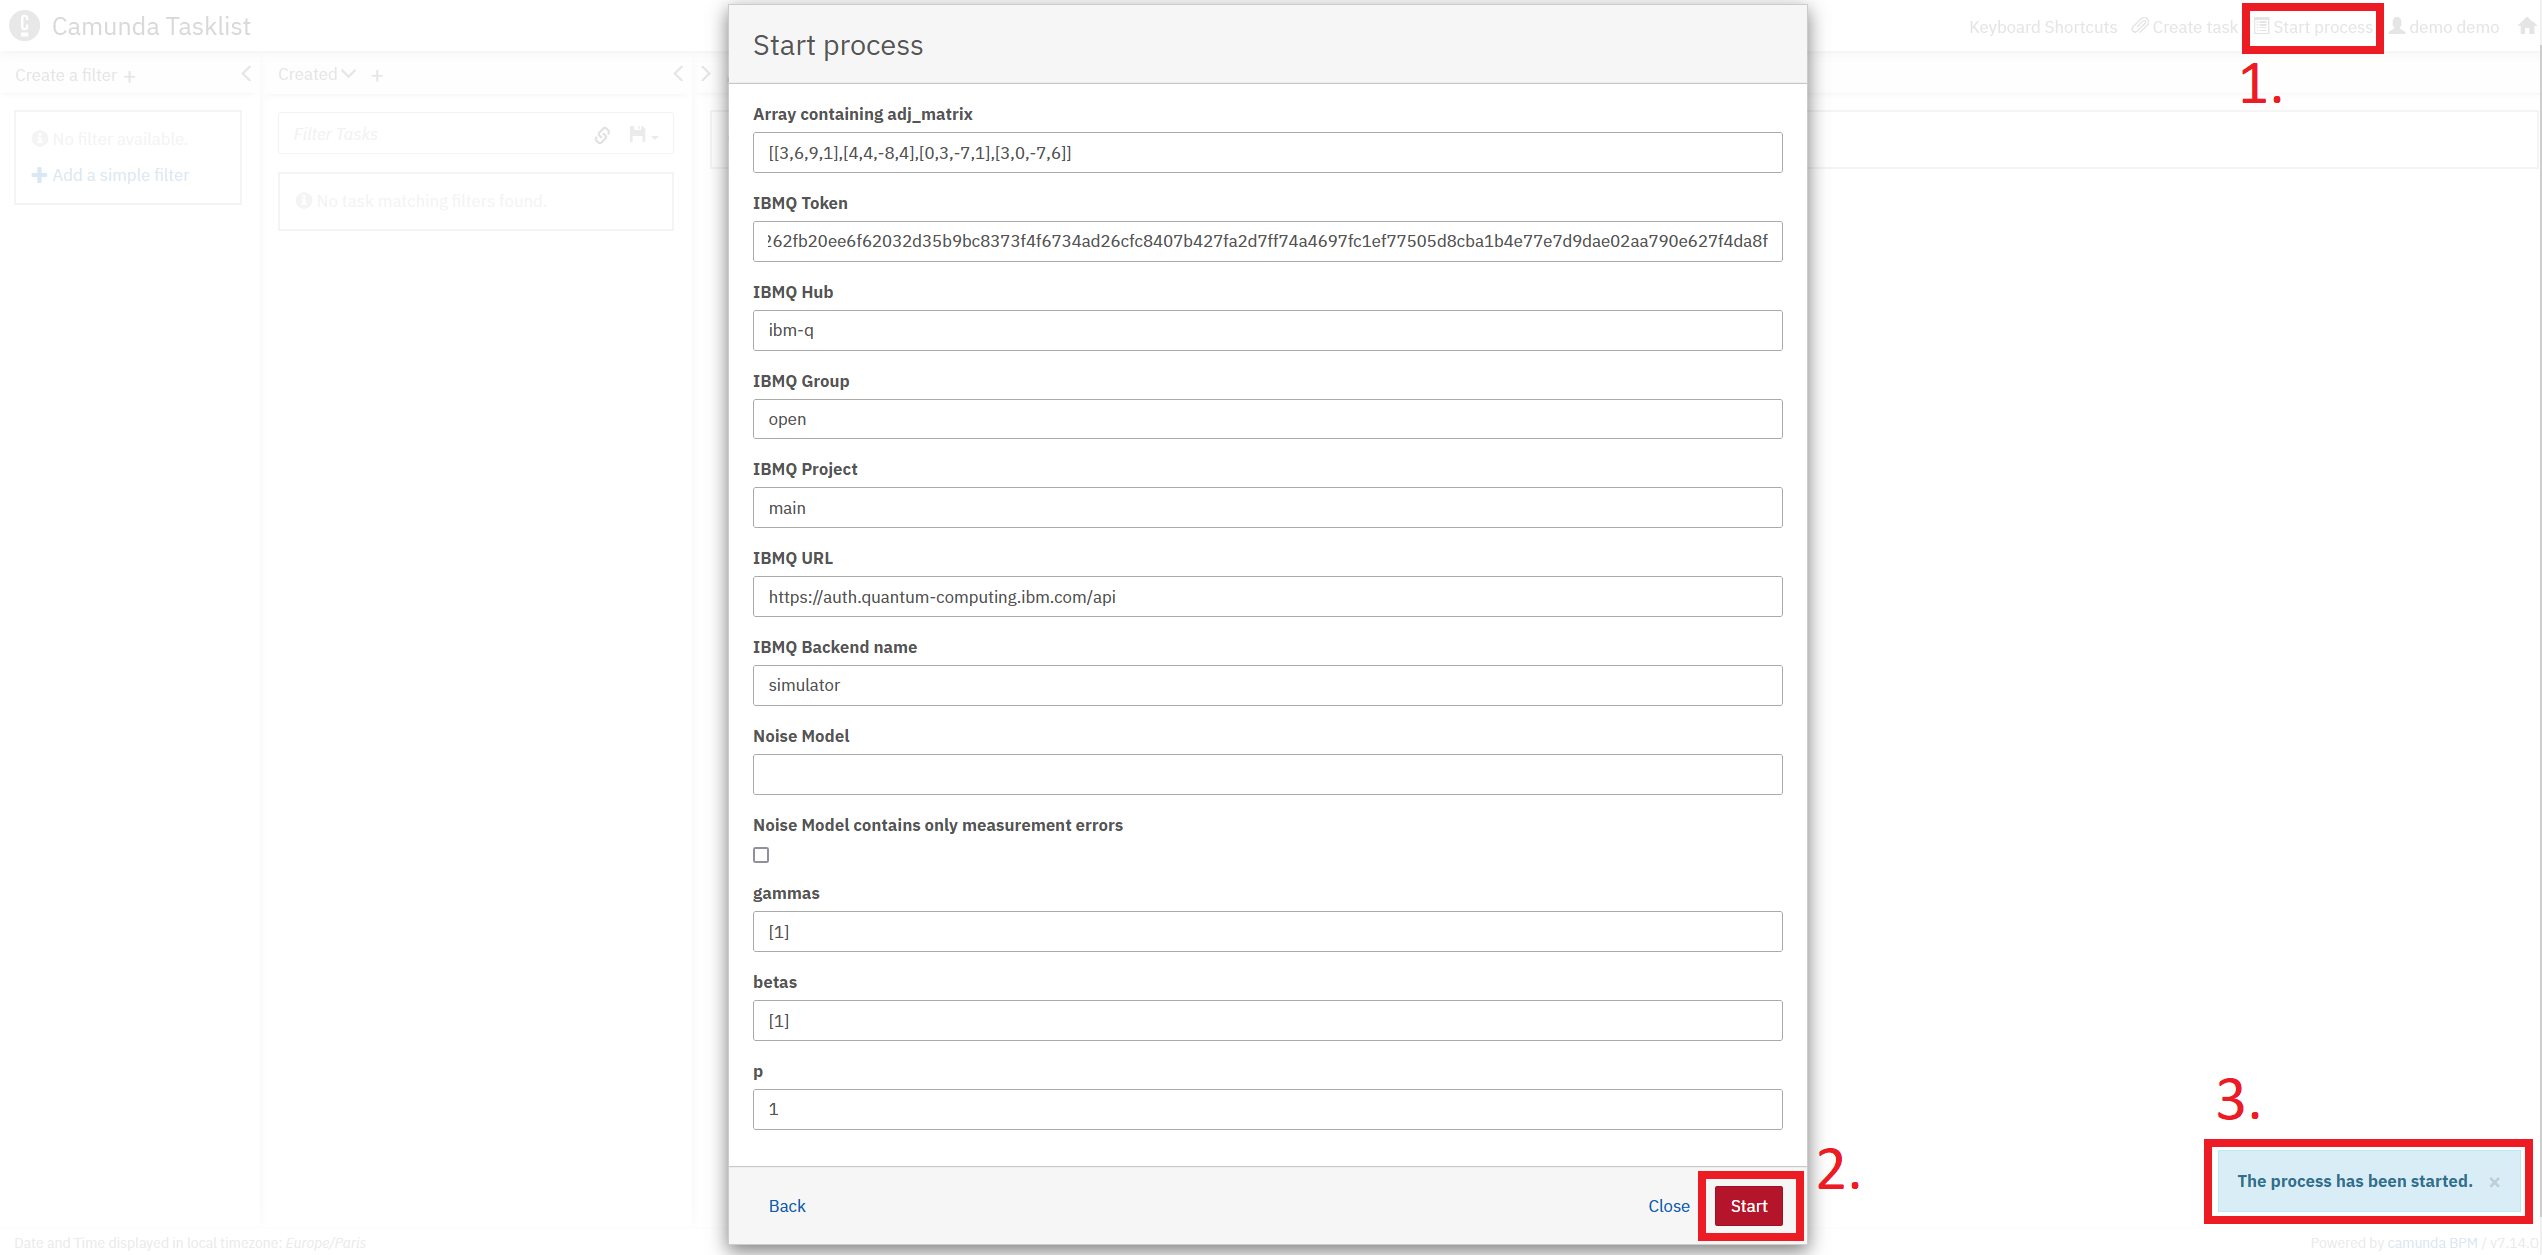
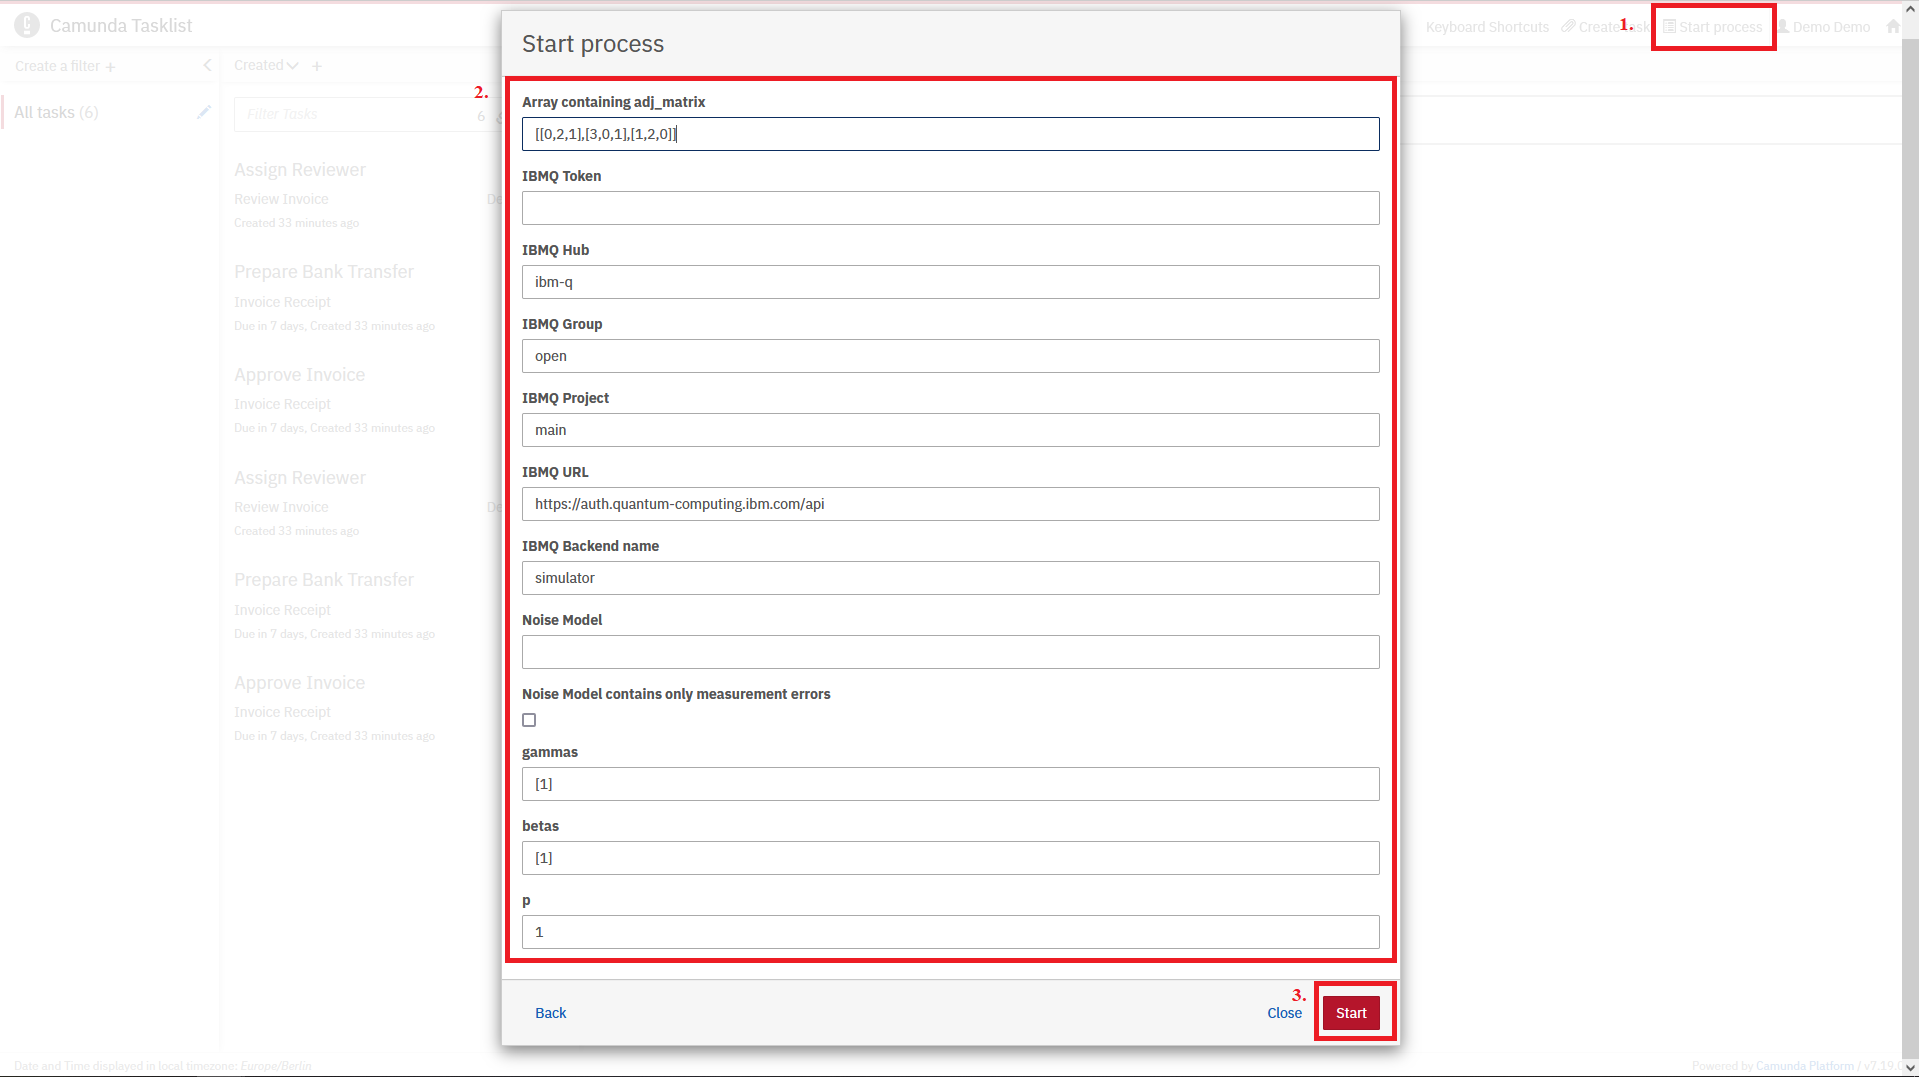
Update docker configuration and README

diff --git a/2023-ccis/README.md b/2023-ccis/README.md
@@ -5,18 +5,18 @@ As the lack of modeling support for these tasks complicates the process of model
 
 In the following sections, we showcase how these new QuantME4VQA modeling constructs can be used to model and execute an exemplary VQA that solves the Maximum Cut (MaxCut) problem using the [Quantum Approximate Optimization Algorithm (QAOA)](https://arxiv.org/pdf/1411.4028.pdf).
 
-The use case utilizes the QuantME Transformation Framework and Quokka:
+The use case utilizes the Quantum Workflow Modeler and Quokka:
 
-* [QuantME Modeling and Transformation Framework](https://github.com/UST-QuAntiL/QuantME-TransformationFramework): A graphical BPMN modeler to define quantum workflows, as well as analyzing and rewriting them for the usage of hybrid runtimes.
+* [Quantum Workflow Modeler](https://github.com/PlanQK/workflow-modeler): A graphical BPMN modeler to define, transform, and deploy quantum workflows.
 * [Quokka](https://github.com/UST-QuAntiL/Quokka): A microservice ecosystem enabling a service-based execution of quantum algorithms.
 
 ## Setup
 
 First, we will discuss the steps required to set up the different components.
-All components except the QuantME Modeling and Transformation Framework, providing the graphical BPMN modeler, are available via Docker.
+All components are available via Docker.
 Therefore, these components can be started using the Docker-Compose file available [here](./docker):
 
-1. Update the [.env](./docker/ip.env) file with your settings: 
+1. Update the [.env](./docker/.env) file with your settings:
   * ``PUBLIC_HOSTNAME``: Enter the hostname/IP address of your Docker engine. Do *not* use ``localhost``.
 
 2. Run the Docker-Compose file:
@@ -27,45 +27,32 @@ docker-compose up --build
 
 3. Wait until all containers are up and running. This may take some minutes.
 
-To start the QuantME Modeling and Transformation Framework, please execute the following steps:
-
-1. Clone the repository using release v1.8.0: 
-```
-git clone https://github.com/UST-QuAntiL/QuantME-TransformationFramework.git --branch v1.8.0
-```
-
-2. Move to the cloned folder and build the framework:
-```
-npm install
-npm run build
-```
-
-3. The build product can be found in the ``dist`` folder and started depending on the operating system, e.g., using the ``.exe`` for Windows.
+Open the Quantum Workflow Modeler using the following URL: [localhost:8080](http://localhost:8080)
 
 Afterwards, the following screen should be displayed:
 
-![QuantME Transformation Framework](./docs/modeler-after-build.png)
+![Modeler Initial](./docs/modeler-initial.png)
 
-Open the example workflow model available [here](./workflow/workflow_quantme4vqa_case_study.bpmn) using the QuantME Modeling and Transformation Framework.
-For this, click on ``File`` in the top-left corner, and afterwards, select the workflow model in the dialogue ``Open File...``.
+Open the example workflow model available [here](./workflow/workflow_casestudy.bpmn) using the Quantum Workflow Modeler.
+For this, click on ``Open`` in the top-left corner, and afterwards, select the workflow model in the dialogue ``Open File...``.
 Then, the following screen is displayed:
 
-![Quantum Workflow in Modeler](./docs/quantum-workflow-in-modeler.png)
+![Quantum Workflow in Modeler](./docs/modeler-workflow-loaded.png)
 
-The QuantME Modeling and Transformation Framework must be configured with the endpoints of the workflow engine and the QRM repository.
-For this, click on ``Configuration`` in the toolbar, opening the config pop-up:
+The Quantum Workflow Modeler is pre-configured with the endpoints of the workflow engine and the QRM repository.
+To check these settings, click on ``Configuration`` in the toolbar, opening the config pop-up:
 
 ![Quantum Workflow in Modeler](./docs/modeler-configuration.png)
 
-Please update the different configuration properties using the following values.
+Please verify that the different configuration properties are set to the following values.
 Thereby, $IP has to be replaced with the IP-address of the Docker engine used for the setup described above:
 
-* ``BPMN`` tab:
+* Under ``Editor``:
     * ``Camunda Engine Endpoint``: http://$IP:8080/engine-rest
-* ``QRM Data`` tab:
+* Under ``QRM Data``:
     * ``QRM Repository User``: UST-QuAntiL
     * ``QRM Repository Name``: QuantME-UseCases
-    * ``QRM Repository Path``: 2023-closer/qrms
+    * ``QRM Repository Path``: 2023-ccis/qrms
 
 
 ### Configuring, Transforming, and Executing the Quantum Workflow
@@ -81,25 +68,39 @@ QuantME4VQA enables the configuration of the warm-starting, optimization and cir
 
 ![QuantME4VQA Properties](./docs/modeler-properties.png)
 
-Before executing the workflow it has to be transformed into a BPMN standard-compliant workflow.
-Thus, click the ``Transformation`` button.
-Afterwards, all quantum-specific tasks are replaced with standard-compliant BPMN modeling elements.
+To execute the workflow, the QuantME and QuantME4VAR modeling constructs must be replaced by standard-compliant BPMN modeling constructs.
+Therefore, click on the ``Transform Workflow`` button.
 
-![QuantME Transformation Framework](./docs/modeler-transformation.png)
+![Quantum Workflow Modeler](./docs/modeler-transformation.png)
 
-Next, deploy the workflow by clicking the ``Workflow Deployment`` button.
-Once it is successfully deployed, open the UI of the Camunda BPMN engine via: ``$IP:8080/camunda``
+The resulting native workflow model, that will automatically be opened in a new tab, is displayed below.
+For example, the Warm-Starting Task and Quantum Circuit Loading Task are replaced by two Service Tasks invoking the corresponding services of the Quokka ecosystem based on the configuration attributes.
+Additionally, new Service Tasks are inserted to split the quantum circuit, as well as to combine the results after the execution.
 
-First, create an account in the Camunda engine and log in. 
-Then, the following screen is displayed:
+![Quantum Workflow Modeler](./docs/modeler-transformed-workflow.png)
+
+Next, deploy the workflow by clicking the ``Deploy Workflow`` button.
+
+![Quantum Workflow Modeler](./docs/modeler-deploy-workflow.png)
+
+Open the Camunda Engine using the following URL: [localhost:8090](http://localhost:8090)
+Use ``demo`` as username and password to log in, which displays the following screen:
 
 ![Camunda Loginscreen](./docs/camunda-loginscreen.png)
 
-Click on the home icon in the top-right corner and select ``Tasklist``.
+Click on ``Cockpit`` to validate that the workflow was successfully uploaded.
+Then, click on ``Processes`` on the top-left and select the workflow from the list.
+This should show a graphical representation of the uploaded workflow:
 
-To instantiate the workflow model, click on ``Start process`` on the top-right and select the workflow in the pop-up menu.
-Next, modify the input options according to your requirements and subsequently press ``Start``.
-If the quantum circuits shall be run on a quantum device or a simulated device noise model is used, valid IBMQ credentials giving access to the device must be provided.
+![Camunda Workflow Overview](./docs/camunda-wfoverview.png)
+
+To instantiate the workflow, click the home button on the top-right, then select ``Tasklist``.
+Next, click on ``Start process`` on the top-right, select the name of the uploaded workflow, and provide the input parameters as shown below:
+
+* ``adjMatrix``: ``[[0,2,1],[3,0,1],[1,2,0]]``
+* ``betas``: ``[1]``
+* ``gammas``: ``[1]``
+* ``token``: ``YOUR_IBMQ_TOKEN`` (can be left empty when using the aer simulator (default))
 
 ![Camunda Start Process](./docs/camunda-startprocess.png)
 
@@ -108,19 +109,23 @@ Afterwards, once more, click on the home icon on the top-right and select Cockpi
 Click on the Running Process Instance, select the started workflow, and then click on the workflow ID. 
 Now the workflow's token flow and the changing variables can be observed. To see the current state of the workflow instance refresh the page.
 
-![Camunda Start Process](./docs/camunda-wfoverview.png)
+![Camunda Start Process](./docs/camunda-running-workflow.png)
 
 Wait until the token reaches the final user task in the workflow, as depicted below.
 This might take some time, depending on the circuit size, the execution parameters, and the utilization of the selected quantum device or simulator.
 
 ![Camunda Start Process](./docs/camunda-processfinished.png)
 
-Afterwards, switch to the Camunda Tasklist via the home menu and click on ``Add a simple filter`` on the left.
-Now, the task object for the human task should be visible in the task list. Click on the task object and then on the ``Claim`` button to get the URL for the plot of the execution result.
+Wait until the token reaches the final user task, then, switch to the Tasklist.
+Select the task item on the left (1), then click on ``Claim`` to activate the item (2), and download the result plot using the given URL (3).
+Afterwards, click on ``Complete`` to terminate the workflow instance (4).
 
 ![Camunda Analyze Results](./docs/camunda-analyzeresults.png)
 
 Finally, click the ``Complete`` button to finish the human task, and as it is the last activity in the workflow, to terminate the workflow instance.
+Open the downloaded image, visualizing the MaxCut solution for the input graph.
+
+![Max Cut Plot](./docs/maxcut-plot.png)
 
 ## Disclaimer of Warranty
 Unless required by applicable law or agreed to in writing, Licensor provides the Work (and each Contributor provides its Contributions) on an "AS IS" BASIS, WITHOUT WARRANTIES OR CONDITIONS OF ANY KIND, either express or implied, including, without limitation, any warranties or conditions of TITLE, NON-INFRINGEMENT, MERCHANTABILITY, or FITNESS FOR A PARTICULAR PURPOSE. You are solely responsible for determining the appropriateness of using or redistributing the Work and assume any risks associated with Your exercise of permissions under this License.
